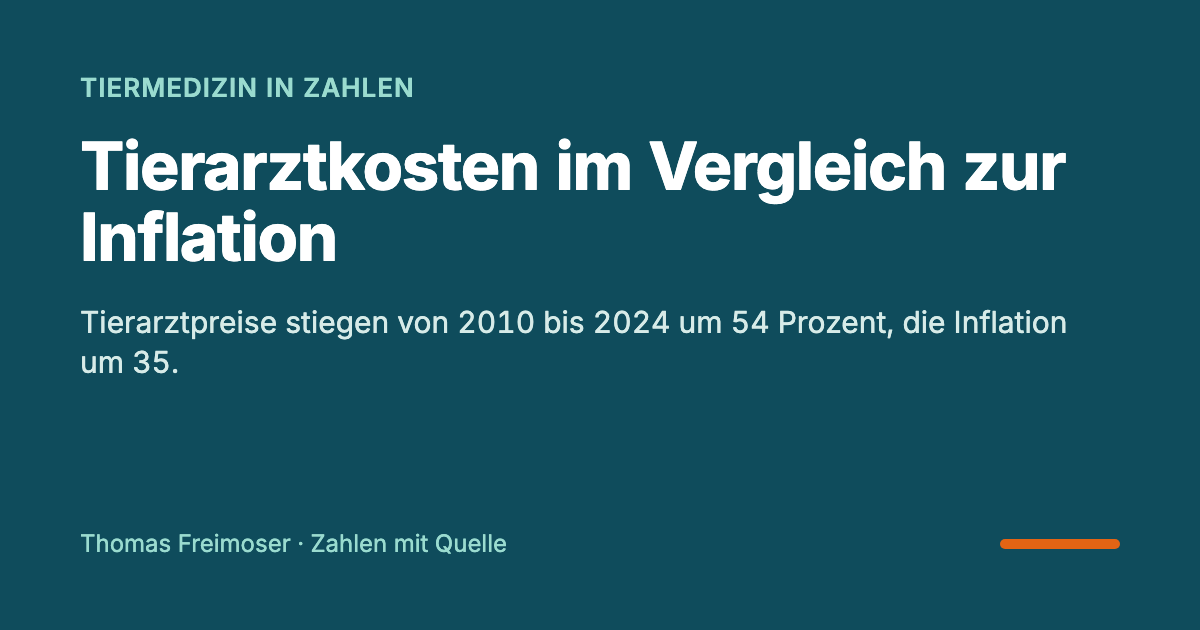
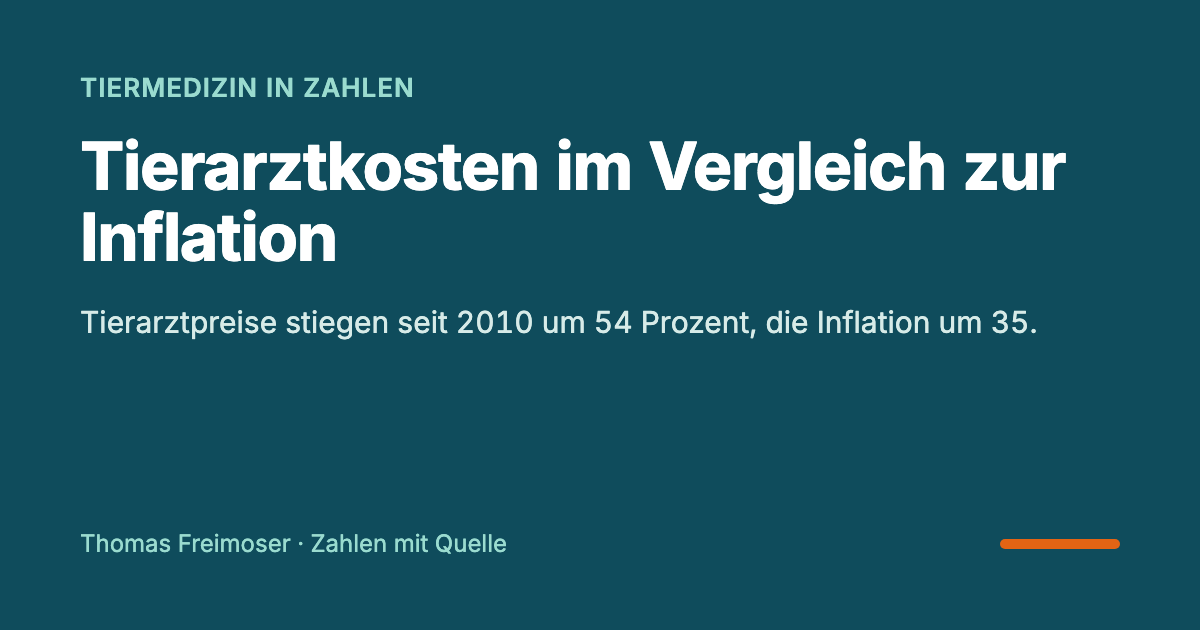
Tierarzt gegen Inflation: Katze, Hund, Pferd wieder in der Grafik, Maß raus, Artikel mit Kernaussage

Changed region(s): [[0.3392, 0.4825, 0.8942, 0.5429], [0.0617, 0.5429, 0.1542, 0.6032]]

diff --git a/src/samples/index.ts b/src/samples/index.ts
@@ -302,22 +302,22 @@ export const SAMPLES: SampleDataset[] = [
     id: 'tierarzt-inflation',
     erstellt: '2026-10-07', geprueft: '2026-10-07',
     category: 'praxis',
-    title: 'Tierarzt, Inflation und Maß: was seit 2010 teurer wurde',
-    subtitle: 'Tierarztpreise in Deutschland und den Niederlanden, Umsatz der Tierarztpraxen. Anstieg seit 2010',
-    source: 'Quelle: Destatis (Verbraucherpreisindex, Umsatzsteuerstatistik), Eurostat (HICP Niederlande), Stat. Amt München (Maß, 2020/21 gerechnet)',
+    title: 'Tierarzt gegen Inflation: was seit 2010 teurer wurde',
+    subtitle: 'Katze, Hund, Pferd: Routinejahr laut Gebührenordnung. Dazu Tierarztpreise DE und NL, Praxisumsatz',
+    source: 'Quelle: GOT 2008–2022 (eigener Warenkorb), Destatis (Verbraucherpreisindex, Umsatzsteuerstatistik), Eurostat (HICP Niederlande)',
     sourceUrl: 'https://www-genesis.destatis.de/datenbank/online/statistic/61111/table/61111-0003',
     unit: 'Prozent',
-    description: 'Tierarztpreise stiegen schneller als die Inflation, in Deutschland in Stufen, in den Niederlanden gleichmäßig. Der Umsatz der Praxen hat sich mehr als verdoppelt.',
+    description: 'Tierarztpreise stiegen schneller als die Inflation. Am stärksten verteuerte sich die Routine: ein Impftermin und ein Krankheitsbesuch, vor allem für Katzen.',
     dataInfo: [
-      "„Tierarztpreise“ ist der deutsche Verbraucherpreisindex für Veterinär- und andere Dienstleistungen für Haustiere (Destatis), Jahresdurchschnitt. Er bleibt jahrelang gleich und springt genau, wenn sich die Gebührenordnung für Tierärzte (GOT) oder die Mehrwertsteuer ändert: Juli 2017 plus 12 Prozent, Dezember 2022 plus 37,5 Prozent. Er bildet also die Gebührensätze ab.",
-      "„Tierarztpreise NL“ ist derselbe Index für die Niederlande (Eurostat, harmonisierter Verbraucherpreisindex), wo es keine Gebührenordnung gibt. „Praxisumsatz“ ist der steuerbare Umsatz der Tierarztpraxen aus der Umsatzsteuerstatistik (Destatis), ohne Umsatzsteuer. Er misst echtes Geld, also Preise mal Menge: mehr Tiere, mehr Behandlungen, Medikamente, Nutztier- und Pferdepraxis eingeschlossen.",
-      "„Inflation“ ist der Verbraucherpreisindex insgesamt. Die Maß ist der Durchschnittspreis auf dem Oktoberfest (Statistisches Amt München); 2020 und 2021 fiel die Wiesn aus, diese Jahre sind linear zwischen 2019 und 2022 gerechnet. Die Grafik beginnt 2010 und endet 2024, weil es nur dafür alle Reihen gibt.",
+      "Katze, Hund und Pferd sind ein eigener Warenkorb „Routinejahr“: ein Impftermin (allgemeine Untersuchung mit Beratung und Impfung) und ein Krankheitsbesuch (Untersuchung und Injektion) nach der Gebührenordnung für Tierärzte (GOT), einfacher Satz mit Umsatzsteuer, Jahresdurchschnitt nach Geltungstagen. Der Faktor bleibt über die Zeit gleich, so wie bei jedem Preisindex. Bis 2022 laufen die drei Linien gemeinsam, weil alle Gebühren um denselben Prozentsatz stiegen.",
+      "„Tierarztpreise“ ist der deutsche Verbraucherpreisindex für Veterinär- und andere Dienstleistungen für Haustiere (Destatis). Er folgt den GOT-Sätzen und springt nur, wenn sie sich ändern: Juli 2017 plus 12 Prozent, Dezember 2022 plus 37,5 Prozent im Schnitt aller Leistungen. „Tierarztpreise NL“ ist derselbe Index für die Niederlande (Eurostat), wo es keine Gebührenordnung gibt.",
+      "„Praxisumsatz“ ist der steuerbare Umsatz der Tierarztpraxen aus der Umsatzsteuerstatistik (Destatis), ohne Umsatzsteuer. Er misst echtes Geld, also Preise mal Menge: mehr Tiere, mehr Behandlungen, Medikamente, Nutztier- und Pferdepraxis eingeschlossen. „Inflation“ ist der Verbraucherpreisindex insgesamt. Die Grafik beginnt 2010 und endet 2024, weil es nur dafür alle Reihen gibt.",
     ],
     headers: TIERARZT_INFLATION.headers,
     rows: TIERARZT_INFLATION.rows,
     suggested: {
-      chartType: 'line', topN: 5, decimals: 0, prefix: '+', suffix: ' %', gapFill: 'none', primaryAxisLabel: 'Anstieg seit 2010',
-      colors: { 'Tierarztpreise': '#0f4c5c', 'Tierarztpreise NL': '#e36414', 'Praxisumsatz': '#8a5a3c', 'Inflation': '#8a949e', 'Maß auf der Wiesn': '#f3a712' },
+      chartType: 'line', topN: 7, decimals: 0, prefix: '+', suffix: ' %', gapFill: 'none', primaryAxisLabel: 'Anstieg seit 2010',
+      colors: { 'Katze': '#e36414', 'Hund': '#e0a800', 'Pferd': '#8a5a3c', 'Tierarztpreise': '#0f4c5c', 'Tierarztpreise NL': '#5c7aea', 'Praxisumsatz': '#7b2cbf', 'Inflation': '#8a949e' },
     },
   },
   {

diff --git a/artikel/datenherkunft.html b/artikel/datenherkunft.html
@@ -291,26 +291,28 @@
           überbrückt.</p>
         <p class="meta">Recherchiert 14.09.2026 · zuletzt geprüft 14.09.2026</p>
 
-        <h2 id="tierarzt-inflation">Tierarzt, Inflation und Maß: was seit 2010 teurer wurde</h2>
+        <h2 id="tierarzt-inflation">Tierarzt gegen Inflation: was seit 2010 teurer wurde</h2>
         <p>
           <strong>Quelle:</strong> Statistisches Bundesamt: Verbraucherpreisindex (GENESIS-Online, Tabellen 61111-0001,
           61111-0003 und 61111-0004), Position „Veterinär- und andere Dienstleistungen für Haustiere“, und
           Umsatzsteuerstatistik (Voranmeldungen, Tabelle 73311-0002), Wirtschaftszweig 75.00.1 Tierarztpraxen;
-          Eurostat: harmonisierter Verbraucherpreisindex, Position CP0935, für die Niederlande; Maßpreis vom
-          Statistischen Amt München. Im Artikel zusätzlich: Abschlussbericht zur Prüfung der GOT (AFC für BLE/BMEL,
-          2021), Bundesrat-Drucksache 247/22 und die Gebührenordnung in den Fassungen 1999, 2008, 2017 und 2022.
+          Eurostat: harmonisierter Verbraucherpreisindex, Position CP0935, für die Niederlande; Gebührenordnung für
+          Tierärzte in den Fassungen 2008, 2017 und 2022 (Bundesgesetzblatt, gesetze-im-internet.de) für den
+          Warenkorb. Im Artikel zusätzlich: Abschlussbericht zur Prüfung der GOT (AFC für BLE/BMEL, 2021) und
+          Bundesrat-Drucksache 247/22.
           <strong>Zeitraum:</strong> 2010 bis 2024.
         </p>
         <p>
-          <strong>Annahmen:</strong> Alle Reihen sind Jahreswerte. Der deutsche Preisindex folgt den GOT-Sätzen: Er
+          <strong>Annahmen:</strong> Katze, Hund und Pferd sind ein eigener Warenkorb „Routinejahr“ (Impftermin und
+          Krankheitsbesuch: zweimal allgemeine Untersuchung, Impfung, Injektion), einfacher Satz mit Umsatzsteuer, Jahresdurchschnitt
+          nach Geltungstagen, gleicher Faktor über die ganze Zeit. Alle Reihen sind Jahreswerte. Der deutsche Preisindex folgt den GOT-Sätzen: Er
           springt Monat für Monat genau zu den GOT- und Steuerterminen; Destatis nennt das nicht ausdrücklich, wir
           schließen es aus dem Verlauf. Der Umsatz ist der steuerbare Umsatz ohne Umsatzsteuer; er misst Preise mal
           Menge und enthält Medikamente, Pferde- und Nutztierpraxis. 2010 ist das erste Jahr, für das alle Reihen
           vorliegen, 2024 das letzte.
         </p>
         <p>
-          <strong>Aufbereitet:</strong> Anstieg seit 2010 in Prozent für alle fünf Reihen. Die Maß ist 2020 und 2021
-          (keine Wiesn) linear zwischen 2019 und 2022 gerechnet. Echte Rechnungen erfasst keine amtliche Statistik; der
+          <strong>Aufbereitet:</strong> Anstieg seit 2010 in Prozent für alle sieben Reihen. Echte Rechnungen erfasst keine amtliche Statistik; der
           durchschnittliche Abrechnungsfaktor ist nur für 2019 erhoben (1,44). Die Erläuterung steht im Artikel
           <a href="../beitrag/tierarztkosten-inflation.html">Tierarztkosten im Vergleich zur Inflation</a>.
         </p>

diff --git a/src/samples/data.ts b/src/samples/data.ts
@@ -493,23 +493,23 @@ export const OKTOBERFEST_PREIS = {
 }
 
 export const TIERARZT_INFLATION = {
-  headers: ["Jahr","Tierarztpreise","Tierarztpreise NL","Praxisumsatz","Inflation","Maß auf der Wiesn"],
+  headers: ["Jahr","Katze","Hund","Pferd","Tierarztpreise","Tierarztpreise NL","Praxisumsatz","Inflation"],
   rows: [
-    ["2010", 0, 0, 0, 0, 0],
-    ["2011", 0, 4.1, 4.5, 2.2, 3.4],
-    ["2012", 0, 8, 6.8, 4.1, 7.1],
-    ["2013", 0, 11.8, 10.5, 5.7, 11.3],
-    ["2014", 0, 13.7, 16.5, 6.7, 13.5],
-    ["2015", 0, 15.9, 20.3, 7.3, 16.8],
-    ["2016", 0, 17.7, 26.3, 7.8, 20.3],
-    ["2017", 5.2, 20, 32.6, 9.4, 23.7],
-    ["2018", 12.1, 22.5, 38.3, 11.4, 28.6],
-    ["2019", 12.1, 25.1, 46.7, 12.9, 33.2],
-    ["2020", 10.6, 27.9, 59.8, 13.5, 39.8],
-    ["2021", 12.1, 31.8, 73.3, 17, 46.4],
-    ["2022", 16.6, 41.6, 79.6, 25.1, 53],
-    ["2023", 54.1, 51.7, 108.8, 32.5, 63],
-    ["2024", 54.1, 64.6, 122.3, 35.4, 69.5],
+    ["2010", 0, 0, 0, 0, 0, 0, 0],
+    ["2011", 0, 0, 0, 0, 4.1, 4.5, 2.2],
+    ["2012", 0, 0, 0, 0, 8, 6.8, 4.1],
+    ["2013", 0, 0, 0, 0, 11.8, 10.5, 5.7],
+    ["2014", 0, 0, 0, 0, 13.7, 16.5, 6.7],
+    ["2015", 0, 0, 0, 0, 15.9, 20.3, 7.3],
+    ["2016", 0, 0, 0, 0, 17.7, 26.3, 7.8],
+    ["2017", 5.2, 5.2, 5.2, 5.2, 20, 32.6, 9.4],
+    ["2018", 12, 12, 12, 12.1, 22.5, 38.3, 11.4],
+    ["2019", 12, 12, 12, 12.1, 25.1, 46.7, 12.9],
+    ["2020", 10.6, 10.6, 10.6, 10.6, 27.9, 59.8, 13.5],
+    ["2021", 12, 12, 12, 12.1, 31.8, 73.3, 17],
+    ["2022", 30.3, 22.9, 21, 16.6, 41.6, 79.6, 25.1],
+    ["2023", 178.7, 111.4, 94.3, 54.1, 51.7, 108.8, 32.5],
+    ["2024", 178.7, 111.4, 94.3, 54.1, 64.6, 122.3, 35.4],
   ],
 }
 

diff --git a/src/content/artikel/auswertung-tierarztkosten-inflation.md b/src/content/artikel/auswertung-tierarztkosten-inflation.md
@@ -2,37 +2,41 @@
 art: auswertung
 slug: tierarztkosten-inflation
 titel: Tierarztkosten im Vergleich zur Inflation
-beschreibung: Tierarztpreise stiegen von 2010 bis 2024 um 54 Prozent, die Inflation um 35. In Deutschland kam der Anstieg in Stufen, in den Niederlanden gleichmäßig.
+beschreibung: Tierarztpreise stiegen seit 2010 um 54 Prozent, die Inflation um 35. Am stärksten die Routine: Untersuchung und Impfung der Katze kosten fast dreimal so viel.
 frage: Sind Tierarztkosten stärker gestiegen als die Inflation?
 suchbegriffe: tierarztkosten gestiegen, tierarzt kosten inflation, got 2022 erhöhung, tierarzt untersuchung kosten katze hund, gebührenordnung tierärzte entwicklung, impfung tierarzt kosten
 stand: 2026-10-07
 grafik: tierarzt-inflation
 bereit: ja
 ---
-Ja. Von 2010 bis 2024 stiegen die **Tierarztpreise in Deutschland um 54 Prozent**, die Verbraucherpreise insgesamt um 35 Prozent. Drei amtliche Quellen zeigen übereinstimmend, dass Tierarztkosten schneller stiegen als die Inflation: der Preisindex des Statistischen Bundesamts, der Umsatz der Tierarztpraxen und der Vergleich mit den Niederlanden. Der Unterschied liegt im Verlauf. In den Niederlanden stiegen die Preise jedes Jahr ein Stück, in Deutschland in Stufen, zuletzt mit der neuen Gebührenordnung im November 2022.
+Ja, und zwar deutlich. Von 2010 bis 2024 stiegen die **Tierarztpreise in Deutschland um 54 Prozent**, die Verbraucherpreise insgesamt um 35 Prozent. Am stärksten verteuerte sich die Routine: Ein Jahr mit einem Impftermin und einem Krankheitsbesuch kostet nach der Gebührenordnung für eine **Katze 179 Prozent mehr**, für einen Hund 111 und für ein Pferd 94 Prozent mehr. Explodiert ist dabei weniger der Markt als die Gebührenordnung: Neun Jahre blieben die Sätze gleich, im November 2022 holte die neue GOT das in einem Schritt nach und verteilte dabei um. Untersuchung und Impfung stiegen weit überdurchschnittlich, einige Operationen wurden günstiger.
 
 ## Das Wichtigste in Kürze
 
-- **Preise:** Tierarztleistungen plus 54 Prozent von 2010 bis 2024, Verbraucherpreise plus 35 Prozent (Destatis). Seit 2000 gerechnet: plus 85 gegen plus 66 Prozent bis 2026.
+- **Routine am teuersten:** Das Routinejahr laut GOT stieg von 2010 bis 2024 bei der Katze um 179 Prozent, beim Hund um 111, beim Pferd um 94 Prozent (gleicher Abrechnungsfaktor, berechnet).
+- **Preise insgesamt:** Tierarztleistungen plus 54 Prozent, Verbraucherpreise plus 35 Prozent (Destatis). Seit 2000 gerechnet: plus 85 gegen plus 66 Prozent bis 2026.
 - **Stufen statt Rampe:** Der deutsche Preisindex folgt der Gebührenordnung für Tierärzte (GOT). Er stand von 2009 bis Mitte 2017 still und sprang im Dezember 2022 um 37,5 Prozent.
 - **Niederlande, ohne Gebührenordnung:** plus 65 Prozent im selben Zeitraum, gleichmäßig verteilt; die Verbraucherpreise dort stiegen um 43 Prozent (Eurostat).
 - **Umsatz der Tierarztpraxen:** plus 122 Prozent, jedes Jahr zwischen 2 und 9 Prozent, 2023 plus 16 Prozent. Darin stecken auch mehr Tiere und mehr Behandlungen.
-- **Abgerechnet wurde schon vorher mehr:** 2019 berechneten Praxen im Normalbetrieb im Schnitt den 1,44-fachen Satz (Studie für das Bundeslandwirtschaftsministerium).
-- **Zum Vergleich:** Die Maß auf der Wiesn wurde von 2010 bis 2024 um 70 Prozent teurer.
+- **Abgerechnet wurde schon vorher mehr:** 2019 berechneten Praxen im Normalbetrieb im Schnitt den 1,44-fachen Satz. Wer damals so viel und heute den einfachen Satz zahlt, zahlt für das Routinejahr eines Hundes rund ein Drittel mehr als 2021, nicht das Doppelte.
 
-## Drei Quellen, ein Bild
+## Was seit 2010 teurer wurde
 
-| Seit 2010 | 2016 | 2021 | 2022 | 2023 | 2024 |
-|---|---:|---:|---:|---:|---:|
-| Tierarzt DE | 0 % | 12 % | 17 % | 54 % | 54 % |
-| Tierarzt NL | 18 % | 32 % | 42 % | 52 % | 65 % |
-| Praxisumsatz | 26 % | 73 % | 80 % | 109 % | 122 % |
-| Inflation | 8 % | 17 % | 25 % | 32 % | 35 % |
-| Maß | 20 % | 46 % | 53 % | 63 % | 70 % |
+| Seit 2010 | 2021 | 2022 | 2023 | 2024 |
+|---|---:|---:|---:|---:|
+| Katze | 12 % | 30 % | 179 % | 179 % |
+| Hund | 12 % | 23 % | 111 % | 111 % |
+| Pferd | 12 % | 21 % | 94 % | 94 % |
+| Tierarzt DE | 12 % | 17 % | 54 % | 54 % |
+| Tierarzt NL | 32 % | 42 % | 52 % | 65 % |
+| Praxisumsatz | 73 % | 80 % | 109 % | 122 % |
+| Inflation | 17 % | 25 % | 32 % | 35 % |
 
-*Tierarztpreise Deutschland und Niederlande, Umsatz der Tierarztpraxen, Verbraucherpreise insgesamt, Maß auf dem Oktoberfest. Jahresdurchschnitte der Preisindizes (Destatis, Eurostat), steuerbarer Umsatz der Tierarztpraxen laut Umsatzsteuerstatistik, Maßpreis vom Statistischen Amt München (2020 und 2021 keine Wiesn, linear gerechnet). Alle Veränderungsraten berechnet.*
+*Katze, Hund, Pferd: Routinejahr mit Impftermin und Krankheitsbesuch nach GOT, einfacher Satz mit Mehrwertsteuer (berechnet). Tierarzt DE und NL: Preisindizes für Tierarztleistungen (Destatis, Eurostat). Praxisumsatz: steuerbarer Umsatz der Tierarztpraxen laut Umsatzsteuerstatistik. Inflation: Verbraucherpreise insgesamt. Jahresdurchschnitte, alle Veränderungsraten berechnet.*
 
-2023 lagen Deutschland und die Niederlande fast gleichauf, 2024 zogen die Niederlande wieder davon. Der Weg war verschieden: In den Niederlanden stiegen die Tierarztpreise schneller als die dortigen Verbraucherpreise (plus 43 Prozent), aber gleichmäßig. In Deutschland blieben sie bis 2022 meist darunter und holten dann auf einen Schlag auf. In Österreich, für das es Werte erst ab 2013 gibt, stiegen die Tierarztpreise bis 2024 um 34 Prozent, ebenfalls ohne Sprung und etwas weniger als die dortigen Verbraucherpreise (plus 37 Prozent).
+Bis 2021 laufen die drei Routinelinien und der deutsche Preisindex fast gleich, weil alle Gebühren um denselben Prozentsatz stiegen. Erst die GOT 2022 trennt sie: Die Routine sprang weit stärker als der Durchschnitt aller Leistungen.
+
+Beim Gesamtpreis lagen Deutschland und die Niederlande 2023 fast gleichauf, 2024 zogen die Niederlande wieder davon. Der Weg war verschieden: In den Niederlanden stiegen die Tierarztpreise schneller als die dortigen Verbraucherpreise (plus 43 Prozent), aber gleichmäßig. In Deutschland blieben sie bis 2022 meist darunter und holten dann auf einen Schlag auf. In Österreich, für das es Werte erst ab 2013 gibt, stiegen die Tierarztpreise bis 2024 um 34 Prozent, ebenfalls ohne Sprung und etwas weniger als die dortigen Verbraucherpreise (plus 37 Prozent).
 
 ## Warum die deutschen Preise Stufen machen
 
@@ -61,15 +65,15 @@ Eine Statistik der echten Tierarztrechnungen gibt es nicht. Zwei Quellen kommen 
 
 Versicherer sehen bei ihren Schäden dagegen eher mehr. Die Uelzener nannte in einem Interview im Juli 2026 für ihre durchschnittlichen Schadenkosten vom ersten Halbjahr 2022 bis zum ersten Halbjahr 2024 ein Plus von 36 bis 77 Prozent, je nach Versicherungs- und Tierart. Das liegt teils über dem Sprung des Preisindex. Eine Zeitreihe dazu veröffentlicht die Uelzener nicht, und versicherte Tiere sind kein Durchschnitt aller Tiere.
 
-## Lupe: ein Routinejahr nach Gebührenordnung
+## Das Routinejahr und der Abrechnungsfaktor
 
-Wie viel die Reform bei Routineleistungen ausmacht, zeigt ein kleiner Warenkorb: ein Impftermin und ein Krankheitsbesuch im Jahr, also zweimal Untersuchung, einmal Impfung, einmal Injektion, mit Mehrwertsteuer.
+Der Warenkorb in der Grafik ist bewusst klein: ein Impftermin und ein Krankheitsbesuch im Jahr, also zweimal Untersuchung, einmal Impfung, einmal Injektion, mit Mehrwertsteuer. Gerechnet mit gleichem Faktor, wie jeder Preisindex. Was ein Tierhalter tatsächlich mehr zahlt, hängt aber auch daran, welchen Faktor seine Praxis vorher und nachher berechnet:
 
-| Routinejahr | 2021, Faktor 1,44 | 2026, Faktor 1,0 | 2026, Faktor 1,44 |
+| Routinejahr in € | 2021 (×1,44) | 2026 (×1,0) | 2026 (×1,44) |
 |---|---:|---:|---:|
-| Katze | 48,36 € | 83,59 € (+73 %) | 120,36 € (+149 %) |
-| Hund | 63,75 € | 83,59 € (+31 %) | 120,36 € (+89 %) |
-| Pferd | 83,52 € | 100,63 € (+20 %) | 144,90 € (+73 %) |
+| Katze | 48,36 | 83,59 (+73 %) | 120,36 (+149 %) |
+| Hund | 63,75 | 83,59 (+31 %) | 120,36 (+89 %) |
+| Pferd | 83,52 | 100,63 (+20 %) | 144,90 (+73 %) |
 
 *Einfache Sätze: Untersuchung 2021 Katze 8,98 €, Hund 13,47 €, Pferd 19,24 €, seit 2022 23,62 € (Hund, Katze) und 30,78 € (Pferd); Impfung 4,49 €, seit 2022 als Injektion 11,50 €; Injektion 5,77 €, seit 2022 11,50 €. Faktor 1,44 laut Studie für 2019, für 2026 Annahme. Berechnet.*
 
@@ -82,7 +86,7 @@ Je nachdem, welchen Faktor eine Praxis vorher und nachher berechnet, wurde ein R
 
 Bei Operationen sieht die Reform ganz anders aus. Die Kastration einer Hündin kostet heute 128,27 Euro, wenn nur die Eierstöcke entfernt werden, und 192,00 Euro mit Gebärmutter. 2021 stand für beides 160,34 Euro in der GOT. Beim Hengst dagegen hat sich die Gebühr verdreifacht.
 
-| Kastration (netto, einfacher Satz) | 2021 | 2026 | Veränderung |
+| Kastration | 2021 | 2026 | Änderung |
 |---|---:|---:|---:|
 | Rüde | 51,31 € | 70,60 € | plus 38 % |
 | Hündin, Ovarektomie | 160,34 € | 128,27 € | minus 20 % |
@@ -90,12 +94,13 @@ Bei Operationen sieht die Reform ganz anders aus. Die Kastration einer Hündin k
 | Kätzin, Ovarektomie | 57,72 € | 56,48 € | minus 2 % |
 | Hengst | 64,14 € | 192,00 € | plus 199 % |
 
-*GOT 2017, Abschnitt G 5; GOT 2022, Nr. 368, 377, 378, 600, 601. Bis 2022 unterschied die GOT bei der weiblichen Kastration nicht nach Methode.*
+*Einfacher Satz ohne Umsatzsteuer. GOT 2017, Abschnitt G 5; GOT 2022, Nr. 368, 377, 378, 600, 601. Bis 2022 unterschied die GOT bei der weiblichen Kastration nicht nach Methode.*
 
-Wer die Praxen heute führt und wer dort arbeitet, steht in den Artikeln über [die Eigentümer der Tierarztketten](tierarztketten-investoren-eigentuemer.html) und über [angestellte Tierärzte und Praxisinhaber](anzahl-tieraerzte-deutschland.html). Den Vergleich zur Maß zeigt der Exkurs [Oktoberfest in Zahlen](oktoberfest-masspreis-inflation.html); dort stehen plus 390 Prozent, weil er 1985 bei 3,20 Euro beginnt.
+Wer die Praxen heute führt und wer dort arbeitet, steht in den Artikeln über [die Eigentümer der Tierarztketten](tierarztketten-investoren-eigentuemer.html) und über [angestellte Tierärzte und Praxisinhaber](anzahl-tieraerzte-deutschland.html). Wie sich der Bierpreis auf der Wiesn gegen die Inflation entwickelt hat, zeigt der Exkurs [Oktoberfest in Zahlen](oktoberfest-masspreis-inflation.html).
 
 ## Was die Zahlen nicht sagen
 
+- **Das Routinejahr ist eine Auswahl.** Labor, Medikamente, Röntgen und Operationen fehlen. Gerade bei Grundleistungen hat die GOT 2022 stark erhöht; ein Korb mit Operationen stiege weniger.
 - **Umsatz ist kein Preis.** Er wächst auch mit der Zahl der Tiere und Behandlungen und enthält Medikamente, Pferde- und Nutztierpraxen. Er zeigt, wie viel Geld fließt, nicht was eine einzelne Leistung kostet.
 - **Die Niederlande sind ein anderer Markt.** Der Vergleich zeigt, wie Tierarztpreise ohne Gebührenordnung verlaufen, nicht was sie in Deutschland ohne GOT gekostet hätten.
 - **Der Faktor seit 2022 ist unbekannt.** Die 1,44 sind eine Selbstauskunft für 2019.
@@ -125,4 +130,4 @@ Nach der GOT mindestens 35,12 Euro netto für Hund oder Katze: 23,62 Euro für d
 
 ## Quelle und Methode
 
-Preisindex Deutschland: [Statistisches Bundesamt, GENESIS-Online](https://www-genesis.destatis.de/datenbank/online/statistic/61111/table/61111-0003), Tabellen 61111-0003 (Jahre) und 61111-0004 (Monate), Position „Veterinär- und andere Dienstleistungen für Haustiere“, und Tabelle 61111-0001 (Gesamtindex), Stand 21.09.2026. Preisindex Niederlande und Österreich: [Eurostat](https://ec.europa.eu/eurostat/databrowser/view/prc_hicp_aind/default/table), harmonisierter Verbraucherpreisindex, Position CP0935, Stand 06.02.2026. Umsatz: [Destatis, Umsatzsteuerstatistik (Voranmeldungen)](https://www-genesis.destatis.de/datenbank/online/statistic/73311/table/73311-0002), Tabelle 73311-0002, Wirtschaftszweig 75.00.1 Tierarztpraxen, steuerbarer Umsatz; zur Gegenprobe die Eurostat-Strukturstatistik (2023 plus 21 Prozent für das gesamte Veterinärwesen). Abrechnungsfaktor: [AFC-Abschlussbericht zur GOT](https://www.bmel.de/SharedDocs/Downloads/DE/_Tiere/Tiergesundheit/abschlussbericht-pruefung-tieraerztegebuehrenverordnung.pdf?__blob=publicationFile&v=2), Februar 2021, S. 66 f. Verordnungsbegründung: [Bundesrat-Drucksache 247/22](https://dserver.bundestag.de/brd/2022/0247-22.pdf). Gebühren: GOT in den Fassungen von 1999 (BGBl. 1999 I S. 1691), 2008 (BGBl. 2008 I S. 1110), 2017 (BGBl. 2017 I S. 2696) und 2022 ([gesetze-im-internet.de](https://www.gesetze-im-internet.de/got_2022/anlage.html)). Versicherer: Interview der Uelzener mit [cash-online](https://www.cash-online.de/a/eine-groessere-op-kostet-heute-schnell-so-viel-wie-ein-familienurlaub-721950/), 13.07.2026. Maß: Statistisches Amt München. Berechnet sind alle Veränderungsraten, der Warenkorb und die Mengenrechnung. Der Datensatz steht im Studio als „Tierarzt, Inflation und Maß“.
+Preisindex Deutschland: [Statistisches Bundesamt, GENESIS-Online](https://www-genesis.destatis.de/datenbank/online/statistic/61111/table/61111-0003), Tabellen 61111-0003 (Jahre) und 61111-0004 (Monate), Position „Veterinär- und andere Dienstleistungen für Haustiere“, und Tabelle 61111-0001 (Gesamtindex), Stand 21.09.2026. Preisindex Niederlande und Österreich: [Eurostat](https://ec.europa.eu/eurostat/databrowser/view/prc_hicp_aind/default/table), harmonisierter Verbraucherpreisindex, Position CP0935, Stand 06.02.2026. Umsatz: [Destatis, Umsatzsteuerstatistik (Voranmeldungen)](https://www-genesis.destatis.de/datenbank/online/statistic/73311/table/73311-0002), Tabelle 73311-0002, Wirtschaftszweig 75.00.1 Tierarztpraxen, steuerbarer Umsatz; zur Gegenprobe die Eurostat-Strukturstatistik (2023 plus 21 Prozent für das gesamte Veterinärwesen). Abrechnungsfaktor: [AFC-Abschlussbericht zur GOT](https://www.bmel.de/SharedDocs/Downloads/DE/_Tiere/Tiergesundheit/abschlussbericht-pruefung-tieraerztegebuehrenverordnung.pdf?__blob=publicationFile&v=2), Februar 2021, S. 66 f. Verordnungsbegründung: [Bundesrat-Drucksache 247/22](https://dserver.bundestag.de/brd/2022/0247-22.pdf). Gebühren: GOT in den Fassungen von 1999 (BGBl. 1999 I S. 1691), 2008 (BGBl. 2008 I S. 1110), 2017 (BGBl. 2017 I S. 2696) und 2022 ([gesetze-im-internet.de](https://www.gesetze-im-internet.de/got_2022/anlage.html)). Versicherer: Interview der Uelzener mit [cash-online](https://www.cash-online.de/a/eine-groessere-op-kostet-heute-schnell-so-viel-wie-ein-familienurlaub-721950/), 13.07.2026. Berechnet sind alle Veränderungsraten, der Warenkorb und die Mengenrechnung. Der Datensatz steht im Studio als „Tierarzt, Inflation und Maß“.

diff --git a/docs/linkedin/post-tierarztkosten-inflation.md b/docs/linkedin/post-tierarztkosten-inflation.md
@@ -5,31 +5,33 @@
 
 ---
 
-Neulich die Maß, heute der Tierarzt. 🐾
+Ist der Tierarzt wirklich explodiert? 🐾
 
-Sind Tierarztkosten stärker gestiegen als die Inflation? Ich habe drei amtliche Quellen übereinandergelegt, 2010 bis 2024:
+Ich habe vier Quellen übereinandergelegt, 2010 bis 2024:
 
-🇩🇪 Tierarztpreise Deutschland: +54 %
+🐱 Routinejahr Katze (Impfung + Krankheitsbesuch laut GOT): +179 %
+🐶 Routinejahr Hund: +111 %
+🐴 Routinejahr Pferd: +94 %
+🇩🇪 Tierarztpreise insgesamt: +54 %
 🇳🇱 Tierarztpreise Niederlande: +65 %
 💶 Umsatz der Tierarztpraxen: +122 %
 📈 Inflation: +35 %
-🍺 Maß auf der Wiesn: +70 %
 
-Die Antwort ist also ja. Spannend ist der Weg dorthin.
+Drei Erkenntnisse:
 
-In den Niederlanden gibt es keine Gebührenordnung. Dort steigen die Preise jedes Jahr ein Stück.
-In Deutschland folgt der Preisindex der GOT aufs Komma: neun Jahre Stillstand, 2017 plus 12 %, im Dezember 2022 plus 37,5 % auf einen Schlag. 2023 lagen beide Länder fast gleichauf.
+1⃣ Ja, der Tierarzt wurde schneller teurer als das Leben insgesamt. Auch in den Niederlanden, ganz ohne Gebührenordnung.
 
-Und was kam auf den Rechnungen an? Der Umsatz der Praxen wuchs jedes Jahr gleichmäßig, auch als die Gebühren eingefroren waren. 2023 waren es plus 16 %, nicht plus 37 %.
-Ein Grund: Schon 2019 rechneten Praxen im Schnitt den 1,44-fachen Satz ab (Studie fürs Ministerium). Ein Teil der Erhöhung stand also längst auf der Rechnung.
+2⃣ Nicht explodiert, sondern aufgestaut. Neun Jahre blieben die GOT-Sätze gleich, im Dezember 2022 kamen +37,5 % auf einen Schlag. Die Niederlande landeten 2023 am selben Punkt, nur gleichmäßig.
 
-Mein Fazit: Die GOT 2022 war weniger eine Explosion als ein Nachholen in einem Schritt. Für einzelne Leistungen war der Sprung trotzdem groß, etwa für die Untersuchung der Katze.
+3⃣ Umverteilt. Untersuchung und Impfung stiegen weit überdurchschnittlich, die Kastration einer Hündin (nur Eierstöcke) wurde sogar günstiger. Am stärksten trifft es deshalb die Routine, vor allem bei Katzen.
 
-Hättet ihr lieber jedes Jahr ein bisschen mehr, oder alle paar Jahre einen großen Schritt?
+Und auf der Rechnung? Schon 2019 rechneten Praxen im Schnitt den 1,44-fachen Satz ab. Wer damals so bezahlt hat und heute den einfachen Satz, zahlt für das Routinejahr eines Hundes etwa ein Drittel mehr, nicht das Doppelte.
+
+Lieber jedes Jahr ein bisschen mehr oder alle paar Jahre ein großer Schritt?
 
 Alle Zahlen, Tabellen und Methode:
 https://tiermedizin-in-zahlen.org/beitrag/tierarztkosten-inflation
 
-Quellen: Destatis (Verbraucherpreisindex, Umsatzsteuerstatistik), Eurostat, AFC-Studie zur GOT (2021), Statistisches Amt München.
+Quellen: Gebührenordnung für Tierärzte, Destatis (Verbraucherpreisindex, Umsatzsteuerstatistik), Eurostat, AFC-Studie zur GOT (2021).
 
 #Tiermedizin #Tierarzt #Inflation #GOT

diff --git a/docs/DATASETS.md b/docs/DATASETS.md
@@ -204,10 +204,10 @@ Ersetzt eine extern zugelieferte Vorlage, in der 19 von 26 Jahren interpoliert o
 - **Reduzierte Fassung** `oktoberfest-preis`: dieselben Werte ohne Bier (Besucher als Säulen, Maß und Maß mit Inflation als Linien), zweite Grafik im Artikel.
 - **Freigabe:** gehört zu keinem Post; freigegeben über `datensaetzeOhnePost` in `src/content/freigabe.json`. Rubrik „Exkurs“.
 
-## Tierarzt, Inflation und Maß (`tierarzt-inflation`, Sonderauswertung)
+## Tierarzt gegen Inflation (`tierarzt-inflation`, Sonderauswertung)
 
-- **Quelle:** Destatis Verbraucherpreisindex (GENESIS 61111-0001/-0003/-0004, CC13-0935) und Umsatzsteuerstatistik (73311-0002, WZ08-75001 Tierarztpraxen), Eurostat HICP CP0935 (NL, AT), alle über die öffentlichen Schnittstellen am 07.10.2026; Maß aus `ds15-oktoberfest.json`. Rohdaten in `data/raw/ds16-tierarztkosten.json` (Preise, GOT-Positionen, Warenkorb) und `data/raw/ds17-tierarzt-umsatz.json` (Umsatz, HICP, Abrechnungsfaktor, Verordnungsbegründung).
-- **Reihen:** Anstieg seit 2010 in Prozent, 2010–2024: Tierarztpreise (deutscher Index), Tierarztpreise NL, Praxisumsatz, Inflation, Maß (2020/21 linear zwischen 2019 und 2022).
-- **Warum so:** Der deutsche Index bildet nur die GOT-Sätze ab (Stufen). Die erste Fassung mit GOT-Einzelleistungen ab 2000 sah angreifbar aus; deshalb überlagern jetzt drei unabhängige Blickwinkel. Der GOT-Warenkorb „Routinejahr“ (`korbJahr`) steht nur noch als Lupe im Artikel, mit Abrechnungsfaktor 1,44 (AFC 2019) als Szenario.
+- **Quelle:** Destatis Verbraucherpreisindex (GENESIS 61111-0001/-0003/-0004, CC13-0935) und Umsatzsteuerstatistik (73311-0002, WZ08-75001 Tierarztpraxen), Eurostat HICP CP0935 (NL, AT), alle über die öffentlichen Schnittstellen am 07.10.2026; GOT 1999/2008/2017/2022 aus dem BGBl. Rohdaten in `data/raw/ds16-tierarztkosten.json` (Preise, GOT-Positionen, Warenkorb) und `data/raw/ds17-tierarzt-umsatz.json` (Umsatz, HICP, Abrechnungsfaktor, Verordnungsbegründung).
+- **Reihen:** Anstieg seit 2010 in Prozent, 2010–2024: Katze, Hund, Pferd (GOT-Warenkorb „Routinejahr“, `korbJahr`, gleicher Faktor), Tierarztpreise (deutscher Index), Tierarztpreise NL, Praxisumsatz, Inflation. Die Maß ist seit dem 07.10.2026 auf Wunsch raus.
+- **Warum so:** Der deutsche Index bildet nur die GOT-Sätze ab (Stufen). Die erste Fassung (nur GOT, ab 2000) sah angreifbar aus; deshalb stehen die Routine-Körbe jetzt neben drei unabhängigen Blickwinkeln auf den Markt. Abrechnungsfaktor 1,44 (AFC 2019) als Szenario im Artikel. Farben mit dem dataviz-Validator geprüft (alle Paare CVD/normal bestanden, Hund-Gelb nur mit Direktbeschriftung).
 - **Grenzen:** Umsatz = Preis × Menge. Faktor nach 2022 unbekannt. Umsatz 2025 erscheint 2027; dann um ein Jahr verlängern.
 - **Freigabe:** über `datensaetzeOhnePost`.

diff --git a/CHANGELOG.md b/CHANGELOG.md
@@ -12,6 +12,7 @@ Alle nennenswerten Änderungen dieses Projekts. Format lose nach [Keep a Changel
 - **Nachgeprüft und umgebaut (gleicher Tag):** Die Monatswerte des Index springen genau zu den GOT- und Steuerterminen (Dezember 2022 +37,5 %); er bildet also Gebührensätze ab. Statt einer einzelnen Untersuchung zeigen Katze, Hund und Pferd jetzt einen eigenen Warenkorb „Routinejahr“ (Impftermin + Krankheitsbesuch, einfacher Satz mit MwSt., Jahresdurchschnitt nach Geltungstagen): Katze +220 %, Hund +143 %, Pferd +123 %. Alle GOT-Positionen aus den vollständigen Gebührenverzeichnissen 1999, 2008, 2017 und 2022 gelesen. Die Maß ist 2020/21 linear gerechnet. Artikel mit Index-Treppe, Warenkorb, Kastrationen und Rechenbeispiel zum Abrechnungsfaktor.
 - **Zweiter Umbau nach Kritik „sieht angreifbar aus“ (gleicher Tag):** Die Grafik überlagert jetzt drei unabhängige amtliche Quellen, 2010–2024: deutscher Tierarzt-Preisindex (+54 %, Stufen), Tierarzt-Preisindex der Niederlande ohne Gebührenordnung (+65 %, gleichmäßig, Eurostat) und Umsatz der Tierarztpraxen (+122 %, Umsatzsteuerstatistik), dazu Inflation (+35 %) und Maß (+70 %). Hund/Katze/Pferd nur noch als Lupe im Artikel, mit dem Abrechnungsfaktor 1,44 aus der GOT-Studie 2019 als Szenario. Neue Rohdaten `ds17-tierarzt-umsatz.json`.
 - **Line Race, erstes Bild:** Stehen alle Reihen auf demselben Wert (Anstieg 0 %), lagen Labels übereinander, weil im Mittelungsfenster einmal der Name und einmal der Wert die Reihenfolge bestimmte. Das Fenster beginnt jetzt knapp über 0. Glätteprüfung über alle zwölf Datensätze: 0 Sprünge.
+- **Dritte Fassung (gleicher Tag):** Katze, Hund und Pferd (GOT-Routinejahr, gleicher Faktor) wieder als Linien in der Grafik, die Maß raus. Sieben Reihen, Farben mit dem Palettenvalidator geprüft. Artikel führt mit der Kernaussage: teurer als die Inflation, am stärksten die Routine, und die GOT 2022 hat nachgeholt und umverteilt.
 
 ### Neues Format „Säulen + Linie“, Exkurs Oktoberfest (04.10.2026)
 
